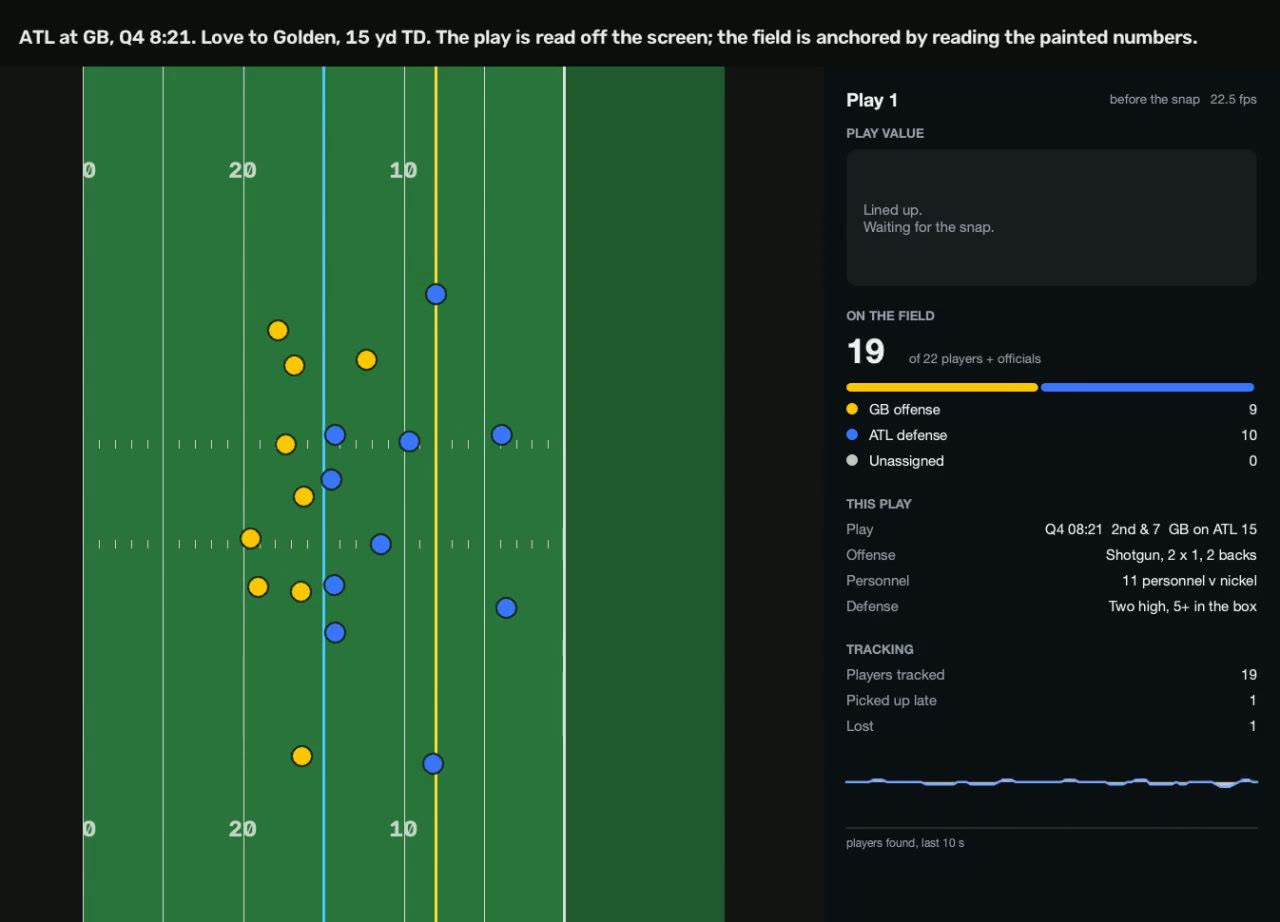
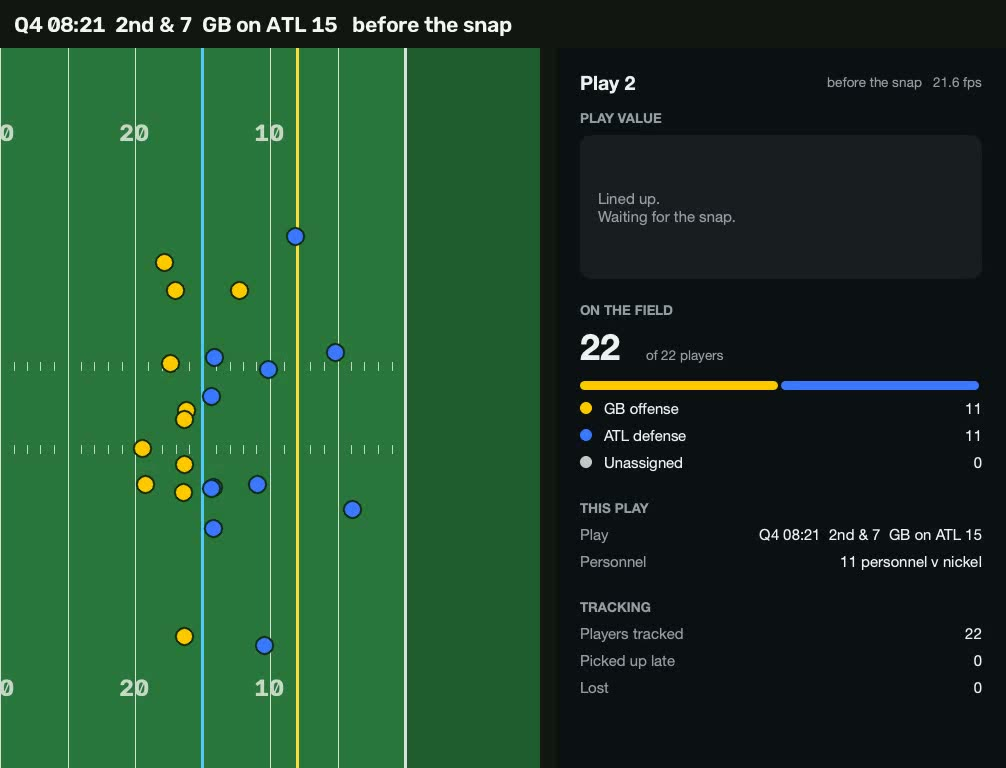
fix: a twelfth man gets no box, the panel counts players only, and the README pictures are from the current run
After the snap a man nobody had named was boxed in his jersey colour whatever the count, so the official on the far sideline got a box late in a play. He is now boxed only while his side is short of eleven, the men well inside the field taken first; anyone left over gets none.

The panel's headline added the officials and strays to the two sides and could read "23 of 22". It is now the two sides only, "of 22 players"; anyone else stays on the third row.

The README's two GIFs and three stills were from runs before the field was mapped at its true width, and the stills showed 19 and 17 on the field. All five are rebuilt from the current code: the GIFs start just before the snap so the line-up is in them, and every still reads 11 and 11.

The play logs are unchanged by this (the same play's log is identical before and after); the change is in what is drawn and counted.

diff --git a/src/nfl_intel/analysis.py b/src/nfl_intel/analysis.py
@@ -31,7 +31,7 @@ from .personnel import BACKFIELD, BACKS, D_LINE, LINEBACKERS, LINEMEN, name_play
 from .playinfo import PlayRecord, match_play, read_screen
 from .roles import assign_roles, describe_look, lined_up, update_roles
 from .schema import FrameResult, TrackedPlayer
-from .stats import LiveStats
+from .stats import PER_SIDE, LiveStats
 from .value import PassValueModel, ReceiverScore, play_value, receiver_features, what_changed
 
 LIVE_FOR = 4.5                # seconds after the snap that "best throw available" still means something
@@ -524,6 +524,21 @@ class PlayAnalyzer(AnalysisView):
         for sid, name in name_players(rec.on_field, found, ball, rec.receiver if rec.matched else "", rec.pass_location if rec.matched else "").items():
             self.labels[sid] = name
 
+    def _eleven_a_side(self, out) -> None:
+        """After the snap a man nobody has named is a player only while his side is short of
+        eleven; the men well inside the field are taken first. Anyone left over is the official
+        on the sideline or a second box on a player already counted, and gets no box."""
+        room = {0: PER_SIDE, 1: PER_SIDE}
+        for p in out.players + out.loose + out.unseen:
+            if p.role not in (None, "OFF") and p.team in room:
+                room[p.team] -= 1
+        strangers = [p for p in out.players if p.role is None]
+        for p in sorted(strangers, key=lambda p: -min(p.field_yd[1], FIELD_WIDTH - p.field_yd[1])):
+            if p.team in room and room[p.team] > 0:
+                room[p.team] -= 1
+            else:
+                p.role, p.team = "OFF", None
+
     def _reclaim(self, t: float) -> None:
         """Players the tracker lost and found again come back as strangers. Give each stranger
         the name of the missing player he most likely is; a stranger on the defense's side
@@ -774,6 +789,8 @@ class PlayAnalyzer(AnalysisView):
                         track_id=-1 - s.id, team=side, box=(0.0, 0.0, 0.0, 0.0), conf=0.0, foot_px=(0.0, 0.0),
                         field_yd=(float(q[0]), float(q[1])), role=self.roles[s.id], label=self.labels.get(s.id),
                     ))
+            if self.roles:
+                self._eleven_a_side(out)
         passing = self._passing
         if self.snap_t is not None and self.anchor is not None and self.roles:
             since = result.t - self.snap_t

diff --git a/src/nfl_intel/stats.py b/src/nfl_intel/stats.py
@@ -46,7 +46,7 @@ class StatsSnapshot:
     field_bbox: tuple[int, int, int, int] | None = None
     value_unit: str = "%"                          # "%" (value is 0..1) or "yd"
     team_names: tuple[str, str, str] = ("Dark jerseys", "Light jerseys", "Unassigned")
-    on_field_note: str = "of 22 players + officials"
+    on_field_note: str = "of 22 players"
     delta_note: str = "since the snap"
     value_note: str = ""                           # why there is no value, when the caller knows
     clock_text: str = ""                           # the caller's own clock ("snap +1.2s"), shown instead of the play clock
@@ -66,7 +66,7 @@ class LiveStats:
         min_swing: float | None = None,
         explain_fn: Callable[[float, float], str] | None = None,
         team_names: tuple[str, str, str] = ("Dark jerseys", "Light jerseys", "Unassigned"),
-        on_field_note: str = "of 22 players + officials",
+        on_field_note: str = "of 22 players",
         baseline_fn: Callable[[float], float] | None = None,
         value_clock_fn: Callable[[], float | None] | None = None,
         value_note_fn: Callable[[], str] | None = None,
@@ -184,7 +184,8 @@ class LiveStats:
         named = self.team_counts_fn() if self.team_counts_fn is not None else None
         a, b, other = named if named is not None else teams
         teams = (min(a, PER_SIDE), min(b, PER_SIDE), other + max(0, a - PER_SIDE) + max(0, b - PER_SIDE))   # a twelfth man is somebody else
-        on_field = sum(teams) if named is not None else len(players)
+        # the two sides; officials and anyone unplaced are the third row, not players
+        on_field = teams[0] + teams[1] or min(len(players), 2 * PER_SIDE)      # before the jerseys are told apart, everyone in sight
         calibrated = bool(players) and all(p.field_yd is not None for p in players)
         clock = max(0.0, t - self._play_start) if self._in_play else 0.0
 

diff --git a/tests/test_analysis.py b/tests/test_analysis.py
@@ -339,3 +339,22 @@ def test_team_counts_are_the_named_eleven_and_officials_are_on_neither_side():
     view.last = Analysis(anchor=SimpleNamespace(offense_team=1), snap_t=3.0,
                          players=seen + back + [man("OFF")], unseen=lost)
     assert view.team_counts() == (11, 11, 2)                                    # defense, offense, the official and the unknown
+
+
+def test_a_twelfth_man_after_the_snap_gets_no_box():
+    from types import SimpleNamespace
+
+    from nfl_intel.schema import TrackedPlayer
+
+    def man(role, team, y=20.0):
+        return TrackedPlayer(0, team, (0.0, 0.0, 1.0, 1.0), 0.9, (0.0, 0.0), (50.0, y), role=role)
+
+    offense = [man("QB", 1)] + [man("REC", 1)] * 5 + [man("OL", 1)] * 5
+    defense = [man("DEF", 0)] * 7 + [man("DL", 0)] * 3                          # ten in sight, none carried: one is missing
+    official, found_again = man(None, 0, y=0.4), man(None, 0, y=18.0)           # both in white; one stands on the sideline
+    twelfth = man(None, 1)
+    out = SimpleNamespace(players=offense + defense + [official, found_again, twelfth], loose=[], unseen=[])
+    PlayAnalyzer._eleven_a_side(None, out)
+    assert (found_again.role, found_again.team) == (None, 0)                    # the defense had room for one, and he is in the field
+    assert (official.role, official.team) == ("OFF", None)
+    assert (twelfth.role, twelfth.team) == ("OFF", None)                        # the offense already has its eleven

diff --git a/tests/test_stats_and_panel.py b/tests/test_stats_and_panel.py
@@ -109,8 +109,8 @@ def test_a_side_is_never_more_than_eleven():
     stats = LiveStats()
     for i in range(10):
         snap = stats.update(_frame(i, range(22), teams=[0, 0, 0, 1]))        # officials and the bench dressed like one team
-    assert snap.team_counts == (11, 5, 6) and snap.on_field == 22          # 17 and 5 by jersey: six of the 17 are somebody else
+    assert snap.team_counts == (11, 5, 6) and snap.on_field == 16          # 17 and 5 by jersey: six of the 17 are somebody else, and not players
     stats = LiveStats(team_counts_fn=lambda: (11, 11, 1))                     # the caller knows the eleven a side
     for i in range(10):
         snap = stats.update(_frame(i, range(16), teams=[0, 1]))               # though only 16 are in sight just now
-    assert snap.team_counts == (11, 11, 1) and snap.on_field == 23
+    assert snap.team_counts == (11, 11, 1) and snap.on_field == 22          # the official is not one of the 22

diff --git a/README.md b/README.md
@@ -7,7 +7,7 @@
 <p align="center">
   <img src="https://img.shields.io/badge/python-3.12-3776AB?logo=python&logoColor=white" alt="Python 3.12">
   <img src="https://img.shields.io/badge/built%20on-Apple%20silicon-000000?logo=apple&logoColor=white" alt="Built on Apple silicon">
-  <img src="https://img.shields.io/badge/tests-201%20passing-2ea44f" alt="201 tests">
+  <img src="https://img.shields.io/badge/tests-202%20passing-2ea44f" alt="202 tests">
   <img src="https://img.shields.io/badge/license-MIT-blue" alt="MIT">
 </p>
 
@@ -15,7 +15,7 @@
   <img src="docs/media/film.gif" width="880" alt="The film with the fitted yard grid, boxes and names on the left; the same moment drawn top-down in yards on the right">
 </p>
 
-<p align="center"><sub>Left, the film as the pipeline sees it: the fitted yard grid, a box on each player and his name. Right, the same moment drawn top-down in yards, with the best throw and its expected yards. Browns 2nd and 10, eight seconds from the snap.</sub></p>
+<p align="center"><sub>Left, the film as the pipeline sees it: the fitted yard grid, a box on each player and his name. Right, the same moment drawn top-down in yards, with the best throw and its expected yards. Browns 2nd and 10, eight seconds from just before the snap.</sub></p>
 
 ---
 
@@ -80,7 +80,7 @@ what holds up and what does not.
   </tr>
   <tr>
     <td><sub>Before the snap. The play has been read off the screen and matched to the play-by-play, the field anchored from the painted numbers, and the formation and personnel are on the panel.</sub></td>
-    <td><sub>Mid-play. Expected yards of the best throw, the plus/minus against a typical play from the same part of the field, who is open, the nearest rusher, and how the tracking is holding up.</sub></td>
+    <td><sub>Mid-play. Expected yards of the best throw, the plus/minus against a typical play from the same part of the field, the biggest swings so far with the moment and the reason, the eleven on each side, who is open and the nearest rusher.</sub></td>
   </tr>
 </table>
 

diff --git a/docs/STATUS.md b/docs/STATUS.md
@@ -24,7 +24,7 @@ to see each of these for yourself on a run.
 | Throw grade | Experimental | throw moment within 0.6 s only 69% of the time | marked firm only when the rank holds |
 | Game table | Working | 621 player-plays over 42 plays on the test game | `nfl game-table` |
 | Detector fine-tuning | Done once, on 275 corrected frames | players found 80.5% → 91.1% on 55 held-out frames; see below | `nfl prelabel`, `nfl boxes`, `nfl train` |
-| Officials and the bench | Officials dropped by sight with the fine-tuned detector, by count and position with the stock one, and given no box or team either way; the bench kept out by the border measured in yards | boxes on an official 53 → 4 on the held-out frames; a side on the panel is never more than eleven | |
+| Officials and the bench | Officials dropped by sight with the fine-tuned detector, by count and position with the stock one, and given no box or team either way; the bench kept out by the border measured in yards | boxes on an official 53 → 4 on the held-out frames; a side is never more than eleven, on the panel or in boxes: after the snap a man nobody has named is boxed only while his side is short of eleven, so the official on the sideline is not; the panel's headline counts the two sides only | |
 
 ## Role assignment in detail
 

diff --git a/docs/REPO_GUIDE.md b/docs/REPO_GUIDE.md
@@ -112,7 +112,7 @@ those rows, so anything built on the Big Data Bowl layout can read it.
 | Path | What it is |
 |---|---|
 | `scripts/make_showcase.py` | Builds the two showcase videos from chosen plays with captions. |
-| `tests/` | 201 tests, synthetic data only, no footage. `formations.py` is the shared synthetic play (a shotgun formation and a film of it); `conftest.py` runs Qt offscreen. Each `test_*.py` matches a module or a stage. |
+| `tests/` | 202 tests, synthetic data only, no footage. `formations.py` is the shared synthetic play (a shotgun formation and a film of it); `conftest.py` runs Qt offscreen. Each `test_*.py` matches a module or a stage. |
 | `README.md` | The front page: what it does, what it looks like, quick start. |
 | `docs/USAGE.md` | Every command and flag, output files, training, how to know it is working. |
 | `docs/STATUS.md` | Where each capability stands, with its measured number, what is next, known limits. |

diff --git a/docs/USAGE.md b/docs/USAGE.md
@@ -192,7 +192,7 @@ to move.
     his box, a labeller clicks a little higher); ID switches count changes of `slot`.
   - `uv run nfl value-train` retrains the value models and prints the held-out AUC and
     calibration.
-- **The code**: `uv run pytest` runs 201 tests on synthetic frames and tracks; no footage
+- **The code**: `uv run pytest` runs 202 tests on synthetic frames and tracks; no footage
   is needed or used.
 
 ### Hand-labelling a play
